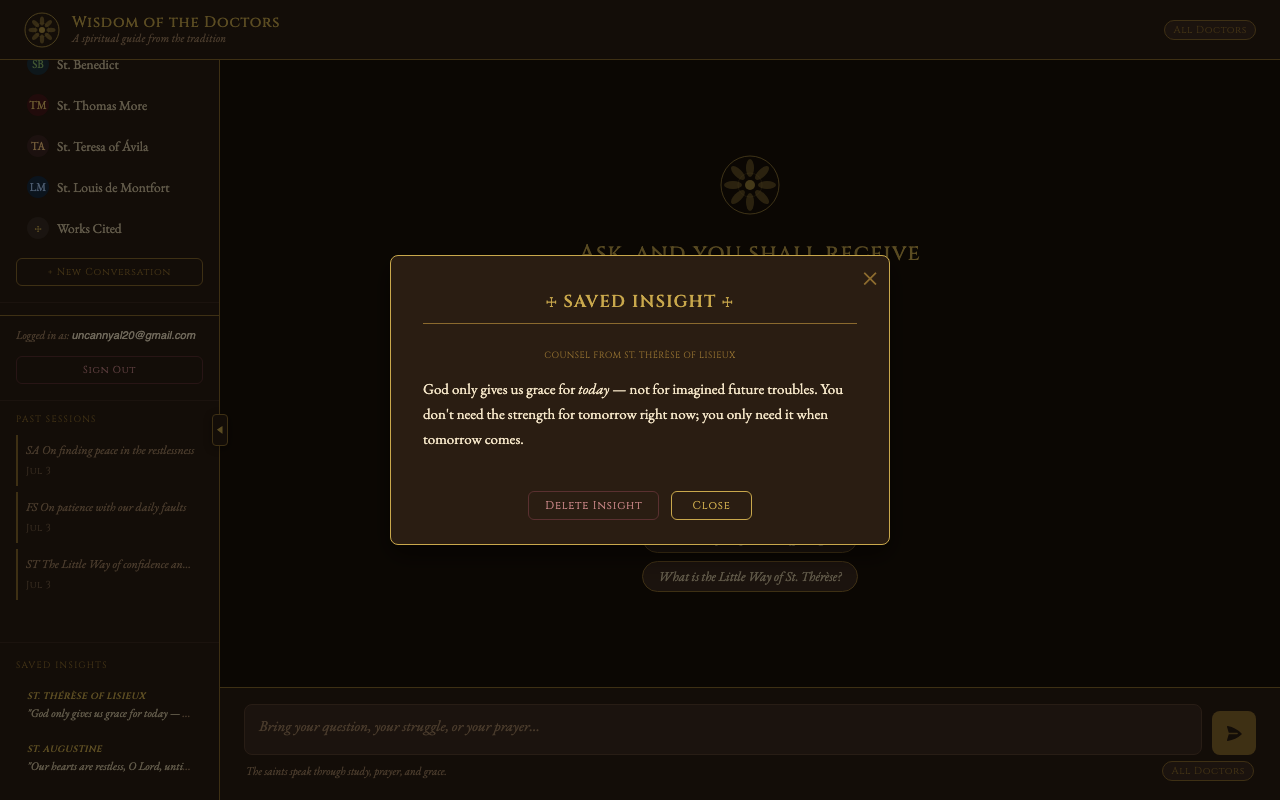
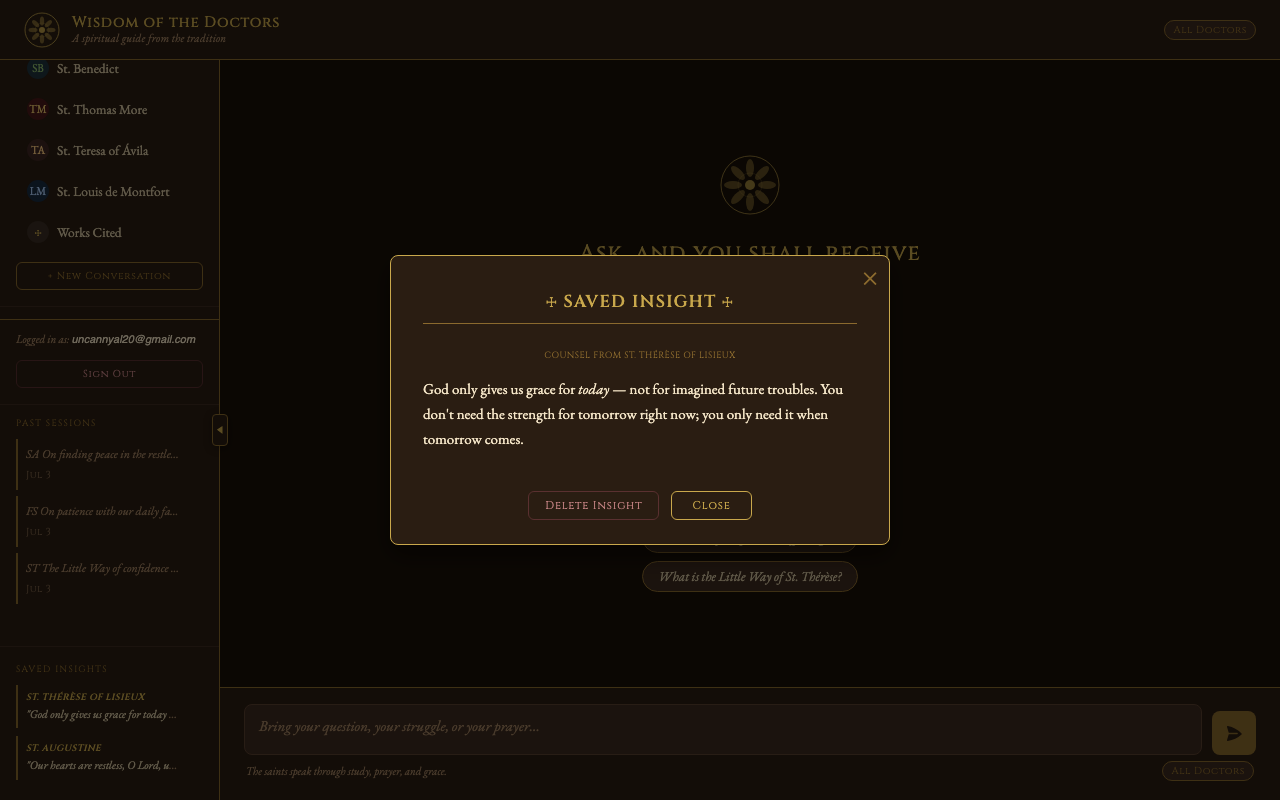
Implement hover-delete buttons for Saved Insights in the sidebar matching the Past Sessions UI

diff --git a/wisdom-of-the-doctors.html b/wisdom-of-the-doctors.html
@@ -212,15 +212,43 @@
     font-size: 12px;
     color: var(--text-muted);
     font-style: italic;
-    padding: 6px 8px;
+    padding: 6px 24px 6px 8px; /* leave space for delete button */
     border-left: 2px solid var(--gold-dim);
     margin-bottom: 8px;
     line-height: 1.4;
     cursor: pointer;
     transition: all 0.1s;
     border-radius: 0 4px 4px 0;
+    position: relative;
+    text-overflow: ellipsis;
+    overflow: hidden;
+    white-space: nowrap;
   }
   .saved-item:hover { background: var(--walnut-mid); color: var(--vellum-dim); }
+  .saved-delete-btn {
+    position: absolute;
+    right: 8px;
+    top: 50%;
+    transform: translateY(-50%);
+    background: transparent;
+    border: none;
+    color: #806060;
+    font-size: 14px;
+    cursor: pointer;
+    opacity: 0;
+    transition: opacity 0.15s, color 0.15s;
+    padding: 0 4px;
+    line-height: 1;
+    display: flex;
+    align-items: center;
+    justify-content: center;
+  }
+  .saved-item:hover .saved-delete-btn {
+    opacity: 1;
+  }
+  .saved-delete-btn:hover {
+    color: #c08080;
+  }
   .saved-empty {
     font-size: 12px;
     color: var(--text-muted);
@@ -1189,9 +1217,10 @@ function renderSaved() {
   }
   container.innerHTML = savedInsights.map((insight, idx) => {
     const snippet = insight.content.replace(/<[^>]+>/g, '').slice(0, 80) + '…';
-    return `<div class="saved-item" onclick="showSavedInsight(${idx})" style="padding: 8px 10px; font-size: 12px; margin-bottom: 4px; border-radius: 4px; cursor: pointer; transition: background 0.15s; line-height: 1.4; border: 1px solid transparent; text-overflow: ellipsis; overflow: hidden; white-space: nowrap;">
+    return `<div class="saved-item" onclick="showSavedInsight(${idx})">
       <strong style="color: var(--gold); display: block; font-size: 9px; text-transform: uppercase; letter-spacing: 0.05em; font-family: 'Cinzel', serif; margin-bottom: 2px;">${escHtml(insight.doctor)}</strong>
       <span style="color: var(--vellum-dim); font-size: 11.5px; font-style: italic;">"${escHtml(snippet)}"</span>
+      <button class="saved-delete-btn" onclick="event.stopPropagation(); deleteSavedInsight(${idx}, '${insight.id}')" title="Delete saved insight">×</button>
     </div>`;
   }).join('');
 }